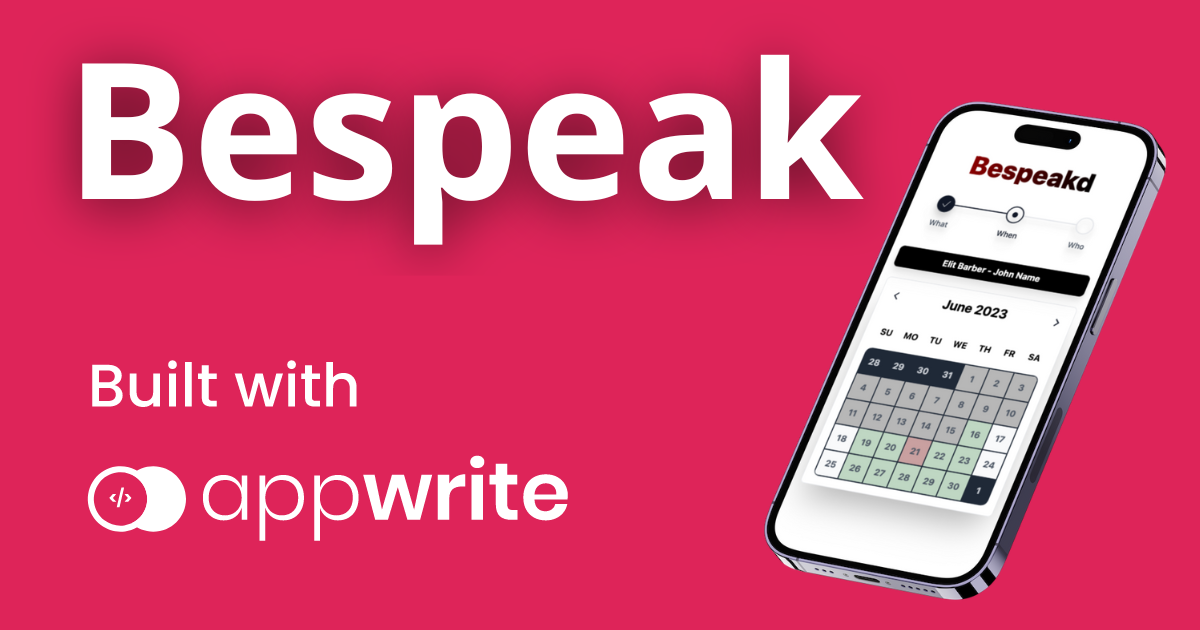
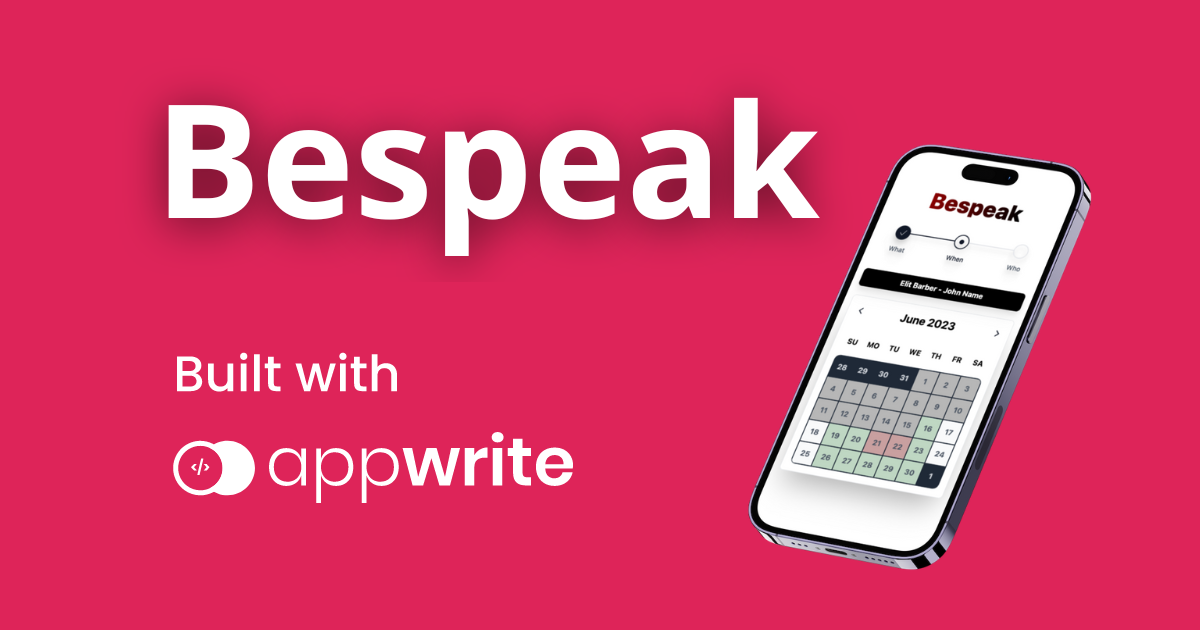
patch

Changed region(s): [[0.0308, 0.0603, 0.9867, 0.9651], [0.0617, 0.6937, 0.4933, 0.8444], [0.0617, 0.5429, 0.3392, 0.6635]]

diff --git a/src/routes/(reserve)/calendar/+layout.svelte b/src/routes/(reserve)/calendar/+layout.svelte
@@ -2,7 +2,7 @@
 	<h1
 		class="font-extrabold text-5xl text-transparent bg-clip-text bg-gradient-to-r from-[#8B0000] to-[#000000]"
 	>
-		Bespeakd
+		Bespeak
 	</h1>
 </div>
 
